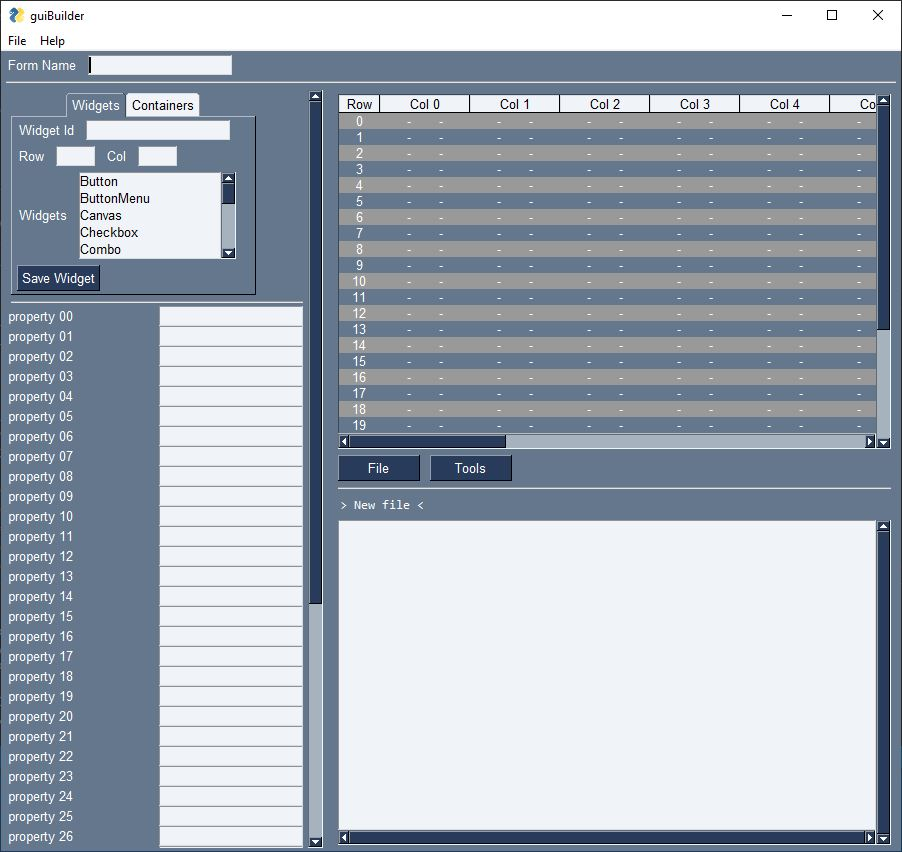
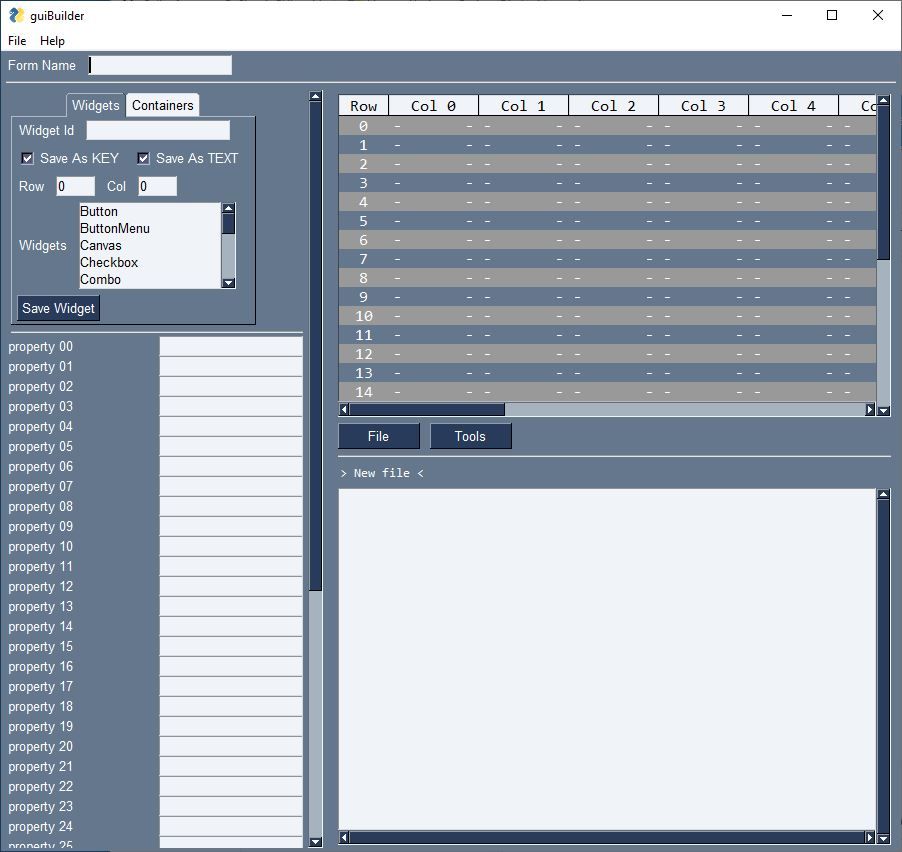
A little closer

Changed region(s): [[0.3725, 0.0, 1.0, 1.0], [0.0, 0.1526, 0.3725, 1.0]]

diff --git a/guibuilder.py b/guibuilder.py
@@ -1,9 +1,10 @@
 """
 How this works (or should work)
  1) User defines widgets, placing on layout table via row / column vars
-  -- more to do here - do not allow overwrite 
-                     - insert at col/row if row taken shifting cells to the right
-                     - does table auto grow this extra cell in row??
+   - do not allow overwrite 
+   - does table auto grow this extra cell in row??
+
+   Do we create "layout" variables at this point?                    
  2) User then groups widgets into container (or none)
     - write this data out to the editor 
     - requires some sort of a template pysimplegui script to start from
@@ -48,8 +49,7 @@ Saved_widgets = {}        # empty dictionary of saved widgets
 WDGT_IDX = 0  # WIDGET ID (one of pysimplegui widgets)
 ROW_IDX  = 1  # ROW NBR for table placement and evental layout buildup
 COL_IDX  = 2  # COL NBR 
-LAY_IDX  = 3  # LAYOUT ID where this widget will be placed in
-PRM_IDX  = 4  # List of parameters entered, calculated by comparing "default" widget signature to what is in the property explorer
+PRM_IDX  = 3  # List of parameters entered, calculated by comparing "default" widget signature to what is in the property explorer
 
 file = None
 
@@ -121,7 +121,7 @@ def save_widget(values):
             prop_value = str(saved_props[i][1])
             prop_idx = saved_props[i][2]
             widget_prop_value = str(values[f'-PROP_VALUE_KEY{i}-'])
-            print (prop_value, widget_prop_value)
+    #        print (prop_value, widget_prop_value)
             if prop_value != widget_prop_value:
                 prop_list.append([prop_idx,prop_name,widget_prop_value])
 
@@ -136,6 +136,8 @@ def table_update(key):
 #
 # key - key for Saved_widgets dictionary of saved widgets 
 #
+    newrow = -1  # flag for changed row
+    newcol = -1  # flag for changed col
     wInfo = Saved_widgets[key]
     if wInfo == None:
         sg.popup('Error', key + ' Not Found in Saved_widgets?')
@@ -145,6 +147,7 @@ def table_update(key):
     if len(tablevalues) < row:
         tablevalues.append([EMPTYCELL for col in range(1,TABLE_COL_COUNT+1)])
         row = len(tablevalues) - 1
+        newrow = row
 
     col = int(wInfo[COL_IDX])
     # if we selected a "column" within the col list, 
@@ -154,14 +157,29 @@ def table_update(key):
         if tablevalues[row][col] == EMPTYCELL:
             tablevalues[row][col] = key
         else:
-            tablevalues[row].insert(col,key)
+            tablevalues[row].insert(col+1,key)
+            newcol = col+1
+    
     # selected a col larger than the col list, append
     else:
         tablevalues[row].append(key)
+        newcol = len(tablevalues[row])-1
+
+    # did we change col / row selected by user? if so we must update the dictionary
+    # 
+    if newrow > -1:
+        row = newrow  # row changed
+    if newcol > -1:
+        col = newcol  # col changed
+    up_dict = {key:[wInfo[WDGT_IDX],row,col,wInfo[PRM_IDX]]}
+    Saved_widgets.update(up_dict)        
+
 # need to figure out how to resize display area of table. Only solution provided so far is to close and recreate the window object
 
     window['-TABLE-'].update(values = tablevalues)
-
+# update the "next" col postion
+    col +=1
+    window['-COL-'].update(value = col)
 
 ################################## Editor functions #############################################################################
 def new_file():
@@ -228,7 +246,8 @@ def load_data(formname):
 ################################## start of layouts #############################################################################
 widget_tab = [
 [sg.Text('Widget Id'),sg.Input(size=(20,1), key = '-WIDGET_ID-',do_not_clear=True,)],
-[sg.Text('Row'),sg.Input(size=(5,1), key = '-ROW-',do_not_clear=True,),sg.Text('Col'),sg.Input(size=(5,1), key = '-COL-',do_not_clear=True,)],
+[sg.Checkbox('Save As KEY',default =True, key = '-SAVE_AS_KEY-'),sg.Checkbox('Save As TEXT',default =True, key = '-SAVE_AS_TEXT-')],
+[sg.Text('Row'),sg.Input(size=(5,1), key = '-ROW-',default_text = "0",do_not_clear=True,),sg.Text('Col'),sg.Input(size=(5,1), key = '-COL-',default_text = "0",do_not_clear=True,)],
 # dropdown list of widgets to select from
 [sg.Text('Widgets'),sg.Listbox(values=gw.widget_list,size=(20,5), enable_events=True,select_mode = 'LISTBOX_SELECT_MODE_SINGLE',  key ='-SEL_WIDGET-')],
 [sg.Button('Save Widget')]
@@ -270,11 +289,12 @@ table_editor_layout = [
     [sg.Sizer(h_pixels=300)],
     [sg.Table(tablevalues, headings=tableheadings, max_col_width=25,
                     auto_size_columns=False,
+                    font=('Consolas', 12),
                     col_widths = 25, 
                     # cols_justification=('left','center','right','c', 'l', 'bad'),       # Added on GitHub only as of June 2022
                     display_row_numbers=True,
                     justification='center',
-                    num_rows=20,
+                    num_rows=15,
                     alternating_row_color='grey60',
                     key='-TABLE-',
 #                    selected_row_colors='red on yellow',
